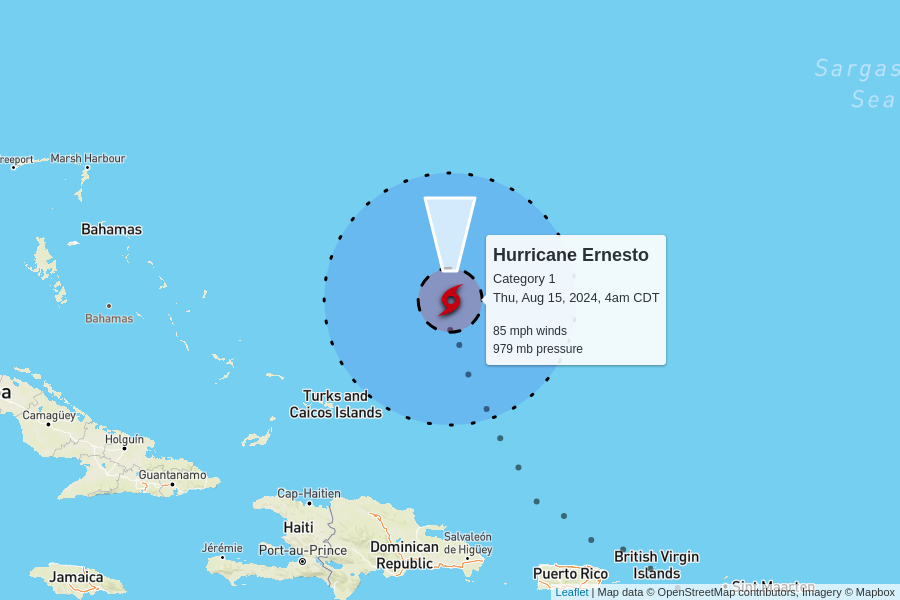
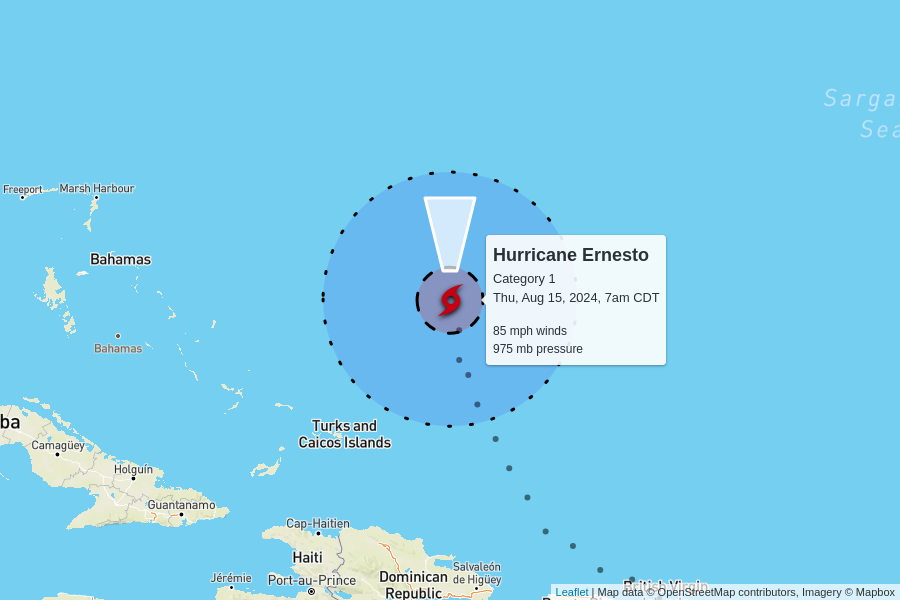
automatic update

diff --git a/docs/index.html b/docs/index.html
@@ -102,7 +102,7 @@
         <td colspan="6" class="storm category-1" >
           <h2>
             Hurricane Ernesto - Category 1
-            <p class="updated">last updated <span data-time>2024-08-15T09:00:00.000Z</span></p>
+            <p class="updated">last updated <span data-time>2024-08-15T12:00:00.000Z</span></p>
           </h2>
         </td>
       </tr>
@@ -118,7 +118,7 @@
       <tr>
         <td class="spacer"></td>
         <td>85 mph<br>0 mph since last update</td>
-        <td>979 mb<br>0 mb since last update</td>
+        <td>975 mb<br>-4 mb since last update</td>
         <td>
           13 mph to the north
           <br/>
